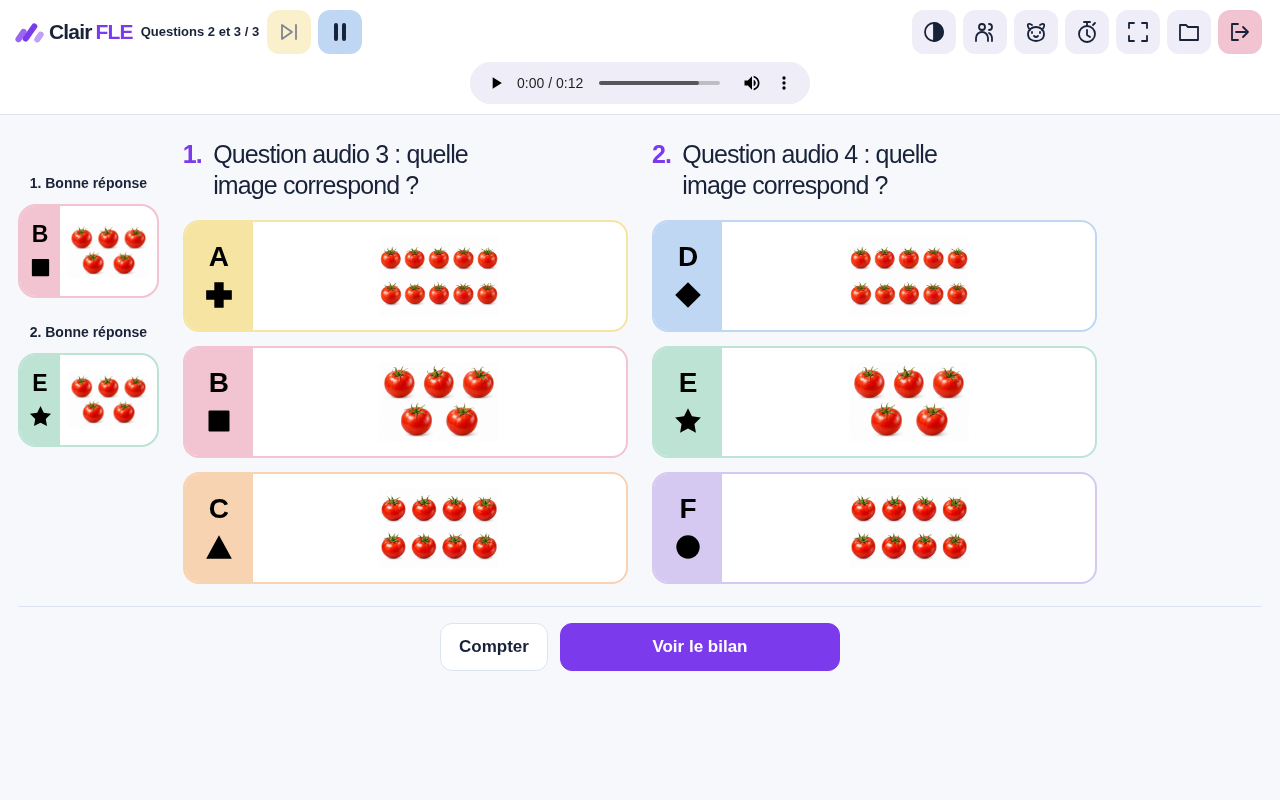
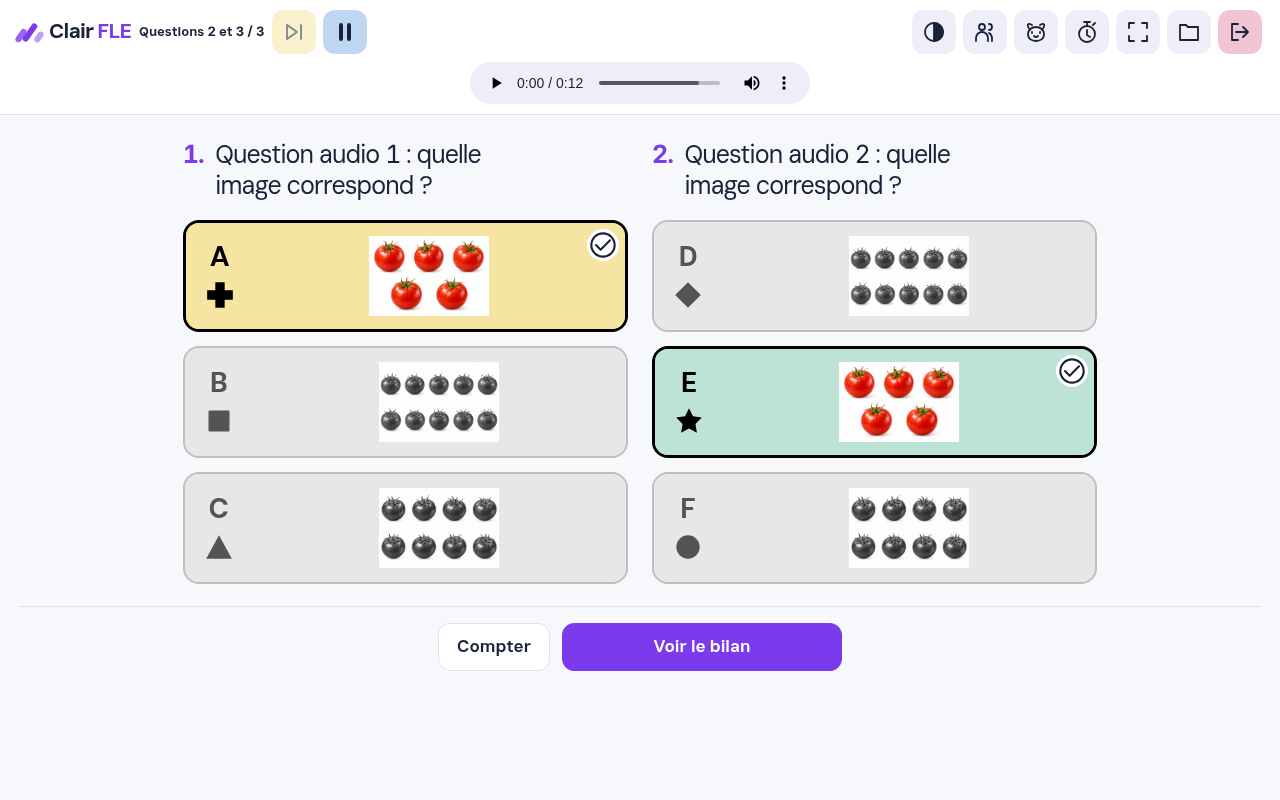
Show corrections in answer cards and gray out distractors

diff --git a/src/interactive/components/CorrectionView.tsx b/src/interactive/components/CorrectionView.tsx
@@ -1,8 +1,4 @@
-import type { CSSProperties } from 'react'
 import type { Correction, Question } from '../domain/types'
-import { PALETTE, inkForColor, type ShapeId } from '../domain/palette'
-import { CardBadge } from './CardBadge'
-import { SafeImage } from './Media'
 import { ResultFeedback } from './ResultFeedback'
 
 /** Mounted only after the teacher reveals. Every proposed answer stays visible. */
@@ -10,9 +6,6 @@ export function CorrectionView({
   question,
   correction,
   selected,
-  colors,
-  shapes,
-  offset,
   onAssess,
   assessment,
   placement = 'model',
@@ -23,12 +16,9 @@ export function CorrectionView({
   question: Question
   correction: Correction
   selected?: string
-  colors: string[]
-  shapes: ShapeId[]
-  offset: number
   onAssess: (value: 'acquired' | 'retry') => void
   assessment?: 'acquired' | 'retry'
-  placement?: 'left' | 'right' | 'model'
+  placement?: 'right' | 'model'
   number?: number
 }) {
   const correct = question.choices.find(
@@ -37,34 +27,6 @@ export function CorrectionView({
   if (question.mode === 'choice') {
     if (!correct) return null
     const isCorrect = correct.id === selected
-    const slot = offset + question.choices.indexOf(correct)
-    if (placement === 'left')
-      return isCorrect ? null : (
-        <div
-          className="ci-margin-answer"
-          style={
-            {
-              '--card-color': colors[slot],
-              '--card-ink': inkForColor(colors[slot]!),
-            } as CSSProperties
-          }
-        >
-          <b>{number !== undefined ? `${number}. ` : ''}Bonne réponse</b>
-          <div className="ci-correction-card">
-            <CardBadge letter={PALETTE[slot]!.letter} shape={shapes[slot]!} />
-            <div className="ci-correction-answer">
-              {correct.image && (
-                <SafeImage
-                  key={correct.image}
-                  src={correct.image}
-                  alt={`Bonne réponse, carte ${PALETTE[slot]!.letter}`}
-                />
-              )}
-              {correct.text && <p>{correct.text}</p>}
-            </div>
-          </div>
-        </div>
-      )
     if (placement === 'right')
       return collective ? null : (
         <div
@@ -79,9 +41,7 @@ export function CorrectionView({
           <b>{isCorrect ? 'Félicitations, c’est juste !' : selected ? 'Faux · essaie encore' : 'Temps écoulé'}</b>
         </div>
       )
-    return correction.text && correction.text !== correct.text ? (
-      <p className="ci-explanation">{correction.text}</p>
-    ) : null
+    return null
   }
   if (placement !== 'model') return null
   return (

diff --git a/src/interactive/components/QuestionStage.tsx b/src/interactive/components/QuestionStage.tsx
@@ -36,6 +36,9 @@ export function QuestionStage({
   number?: number
   onSelect: (id: string) => void
 }) {
+  const showCorrection =
+    phase === 'revealed' &&
+    q.choices.some((entry) => entry.id === correctChoiceId)
   return (
     <>
       <section className="ci-question">
@@ -79,6 +82,7 @@ export function QuestionStage({
             const slot = slotOffset + i
             const palette = PALETTE[slot]!
             const chosen = selected === choice.id
+            const correctAnswer = showCorrection && choice.id === correctChoiceId
             const verdict =
               phase === 'revealed' && chosen
                 ? choice.id === correctChoiceId
@@ -88,7 +92,7 @@ export function QuestionStage({
             return (
               <button
                 key={choice.id}
-                className={`ci-answer${chosen ? ' ci-chosen' : ''}${verdict ? ` ci-answer-${verdict}` : ''}`}
+                className={`ci-answer${chosen ? ' ci-chosen' : ''}${verdict ? ` ci-answer-${verdict}` : ''}${showCorrection ? correctAnswer ? ' ci-answer-key' : ' ci-answer-muted' : ''}`}
                 style={
                   {
                     '--card-color': colors[slot],
@@ -111,12 +115,12 @@ export function QuestionStage({
                   )}
                   {choice.text && <span>{choice.text}</span>}
                 </span>
-                {verdict && (
+                {(verdict || correctAnswer) && (
                   <span className="ci-answer-verdict">
-                    <Icon name={verdict === 'correct' ? 'check' : 'wrong'} />
+                    <Icon name={correctAnswer ? 'check' : 'wrong'} />
                     <span className="ci-sr-only">
-                      {verdict === 'correct'
-                        ? 'Réponse correcte'
+                      {correctAnswer
+                        ? 'Bonne réponse'
                         : 'Réponse incorrecte'}
                     </span>
                   </span>

diff --git a/src/interactive/SessionView.tsx b/src/interactive/SessionView.tsx
@@ -434,22 +434,6 @@ function PlayingRound({
                   onRemaining={(remainingMs) => onClock({ roundId, phase: 'thinking', durationMs: timer.seconds * 1000, remainingMs })}
                 />
               )}
-              {reveal &&
-                questions.map((q, i) => (
-                  <CorrectionView
-                    key={q.id}
-                    collective={!solo}
-                    placement="left"
-                    number={questions.length === 2 ? i + 1 : undefined}
-                    question={q}
-                    correction={game.corrections[q.id]!}
-                    selected={state.selections[q.id]}
-                    colors={colors}
-                    shapes={shapes}
-                    offset={i * 3}
-                    onAssess={() => {}}
-                  />
-                ))}
             </aside>
             <div className="ci-round-questions">
               {questions.map((q, i) => (
@@ -481,9 +465,6 @@ function PlayingRound({
                       question={q}
                       correction={game.corrections[q.id]!}
                       selected={state.selections[q.id]}
-                      colors={colors}
-                      shapes={shapes}
-                      offset={i * 3}
                       assessment={
                         state.history.find((a) => a.questionId === q.id)?.manual
                       }
@@ -524,9 +505,6 @@ function PlayingRound({
                     question={q}
                     correction={game.corrections[q.id]!}
                     selected={state.selections[q.id]}
-                    colors={colors}
-                    shapes={shapes}
-                    offset={i * 3}
                     onAssess={() => {}}
                   />
                 ))}

diff --git a/src/interactive/projection.css b/src/interactive/projection.css
@@ -253,6 +253,7 @@
   right: 6px;
   top: 6px;
   background: #fff;
+  color: #182238;
   border-radius: 50%;
   padding: 2px;
 }
@@ -261,6 +262,25 @@
   height: 28px;
   display: block;
 }
+.ci-app .ci-answer.ci-answer-key {
+  background: var(--card-color);
+  border: 3px solid var(--card-ink);
+  color: var(--card-ink);
+  outline: none;
+  transform: none;
+}
+.ci-app .ci-answer.ci-answer-key .ci-answer-content { background: var(--card-color); color: var(--card-ink); padding-inline-end: 32px; }
+.ci-app .ci-answer.ci-answer-muted {
+  background: #e5e7eb;
+  border-color: #b8bec9;
+  color: #4b5563;
+  box-shadow: none;
+  filter: grayscale(1);
+  outline: none;
+  transform: none;
+}
+.ci-app .ci-answer-muted .ci-card-badge,
+.ci-app .ci-answer-muted .ci-answer-content { background: #e5e7eb; color: #4b5563; }
 .ci-sr-only {
   position: absolute;
   width: 1px;

diff --git a/docs/interactive/design-system.md b/docs/interactive/design-system.md
@@ -4,7 +4,7 @@ Fond calme, panneaux blancs, texte sombre, accent du thème ClairFLE. Les couleu
 
 La palette unique A–F vit dans `domain/palette.ts`. Les couleurs par défaut sont assez claires pour une encre noire à un contraste d’au moins 7:1. Les lettres et formes SVG ont exactement la même taille déclarée, vérifiée dans le navigateur. Les repères restent lisibles pendant la réflexion. Les formes sont configurables avec un échange qui préserve six formes distinctes.
 
-La grille garde trois colonnes et deux rangées sur ordinateur et dans la palette. Le jeu mobile utilise deux colonnes ; le kit papier contient deux colonnes et trois lignes de cartes carrées de 88 mm. Pour deux QCM audio, chaque question occupe une colonne avec son propre numéro : A–C empilés à gauche et D–F à droite. La piste commune est placée dans le menu supérieur. Les repères sont placés à gauche de chaque proposition, lettre en haut et symbole en bas. À la correction, les propositions restent visibles. En Solo, le choix sélectionné porte le signe de justesse. Sur mobile, la question est agrandie, en gras et encadrée ; la mascotte, le minuteur et les retours de correction sont sous les réponses. En Classe, aucune réponse individuelle n’est sélectionnée au tableau.
+La grille garde trois colonnes et deux rangées sur ordinateur et dans la palette. Le jeu mobile utilise deux colonnes ; le kit papier contient deux colonnes et trois lignes de cartes carrées de 88 mm. Pour deux QCM audio, chaque question occupe une colonne avec son propre numéro : A–C empilés à gauche et D–F à droite. La piste commune est placée dans le menu supérieur. Les repères sont placés à gauche de chaque proposition, lettre en haut et symbole en bas. À la correction, toutes les propositions gardent leur place : la bonne conserve sa couleur et porte une coche, les autres passent en gris, images comprises. En Solo, un mauvais choix sélectionné porte une croix. La bonne réponse n’est plus dupliquée dans une marge ou près de la mascotte. Sur mobile, la question est agrandie, en gras et encadrée ; la mascotte, le minuteur et les retours de correction sont sous les réponses. En Classe, aucune réponse individuelle n’est sélectionnée au tableau.
 
 Les commandes de séance et la progression ont leur centre propre, indépendant du titre à gauche. Les boutons icônes portent un nom accessible et un titre. Les étapes utilisent des illustrations originales rondes à fond blanc dans les marges, avec une seconde illustration à droite quand deux actions se suivent. L’action de phase est centrée en pied de séance.
 

diff --git a/docs/interactive/suivi-v4.md b/docs/interactive/suivi-v4.md
@@ -7,7 +7,7 @@ Ce registre complète les anciennes checklists de livraison. Il distingue les fo
 | Travail | État et preuve | Reste à faire |
 |---|---|---|
 | Parcours brouillon / fiche enregistrée | Convertisseurs, préparation, sélection ; nouvelles parties à graine renouvelée sans modifier le modèle serveur, reprise identique ; `game-run-results.json` | Étendre les adaptateurs encore classés non compatibles par l’inventaire |
-| Moteur Classe / Solo | Navigation, correction, pause, minuterie, bilan ; tests de domaine, Classe et Solo | Garde enseignant, annulation de révélation et navigation conservant tous les états par question |
+| Moteur Classe / Solo | Navigation, correction dans les cartes sans doublon près de la mascotte (bonne en couleur, autres grises), pause, minuterie, bilan ; `card-feedback-results.json`, tests de domaine, Classe et Solo | Garde enseignant, annulation de révélation et navigation conservant tous les états par question |
 | F25 diagnostic | Page et rapport local ; tests navigateur et document `diagnostic-eni.md` | Essai sur ENI réel à joindre au pilote |
 | F26 cartes et étalonnage | Palette, formes, contraste ; six carrés de 88 mm en deux colonnes et trois lignes A4 ; `mobile-layout-print-results.json` | Assistant d’étalonnage et contraste des contours complets |
 | F27 feuille enseignant | Fichier autonome A4, corrigés hors DOM, plan identique, obsolescence et images incorporées ; `teacher-sheet-results.json` | Essai d’impression sur l’équipement de classe |

diff --git a/docs/interactive/README.md b/docs/interactive/README.md
@@ -19,7 +19,7 @@ Le cache explicite permet une installation dans les environnements où le dossie
 
 ## Préparation et supports
 
-La préparation vérifie les images et les audios avant le lancement, avec rapport, réessai et exclusion des questions aux médias absents ou invalides sans décocher la sélection. Une nouvelle partie renouvelle la graine du générateur en conservant le modèle serveur. Une reprise garde la série en cours. Les propositions restent visibles après correction ; la réponse n’est pas répétée sous les cartes. Voir [nouvelles parties](nouvelles-parties.md) et [contrôle des médias](livraison-medias-word.md).
+La préparation vérifie les images et les audios avant le lancement, avec rapport, réessai et exclusion des questions aux médias absents ou invalides sans décocher la sélection. Une nouvelle partie renouvelle la graine du générateur en conservant le modèle serveur. Une reprise garde la série en cours. Après correction, la bonne réponse garde sa couleur parmi les cartes et porte une coche ; les autres cartes deviennent grises. La réponse n’est pas répétée près de la mascotte. Voir [correction dans les cartes](livraison-correction-cartes.md), [nouvelles parties](nouvelles-parties.md) et [contrôle des médias](livraison-medias-word.md).
 
 ## Rituel et réglages
 

diff --git a/docs/interactive/livraison-correction-cartes.md b/docs/interactive/livraison-correction-cartes.md
@@ -1,0 +1,9 @@
+# Correction directement dans les cartes
+
+Après révélation en Classe ou correction automatique en Solo, la bonne carte garde sa couleur configurée, avec une bordure et une coche. Les autres cartes deviennent grises, y compris leurs images et repères. En Solo, le mauvais choix sélectionné garde sa croix. L’ordre et le contenu des propositions sont conservés.
+
+Le bloc « Bonne réponse » dans la marge, près de la mascotte sur mobile, a été retiré. Les productions ouvertes conservent leur modèle et leur appréciation humaine. Avant la révélation, aucune carte ne porte de style ou de libellé indiquant la bonne réponse.
+
+Une question à six choix donne une carte en couleur et cinq grises. Deux questions audio appariées gardent chacune leur bonne réponse en couleur, soit deux cartes en couleur et quatre grises.
+
+Vérifications : `tests/interactive/card-feedback-browser.mjs`, suites Classe, Solo et disposition mobile. Les tests couvrent les réponses textuelles et illustrées, les deux modes et une palette sombre personnalisée. Voir [résultats](card-feedback-results.json), [mobile](screenshots/card-feedback-390.png) et [ordinateur](screenshots/card-feedback-1366.png).
